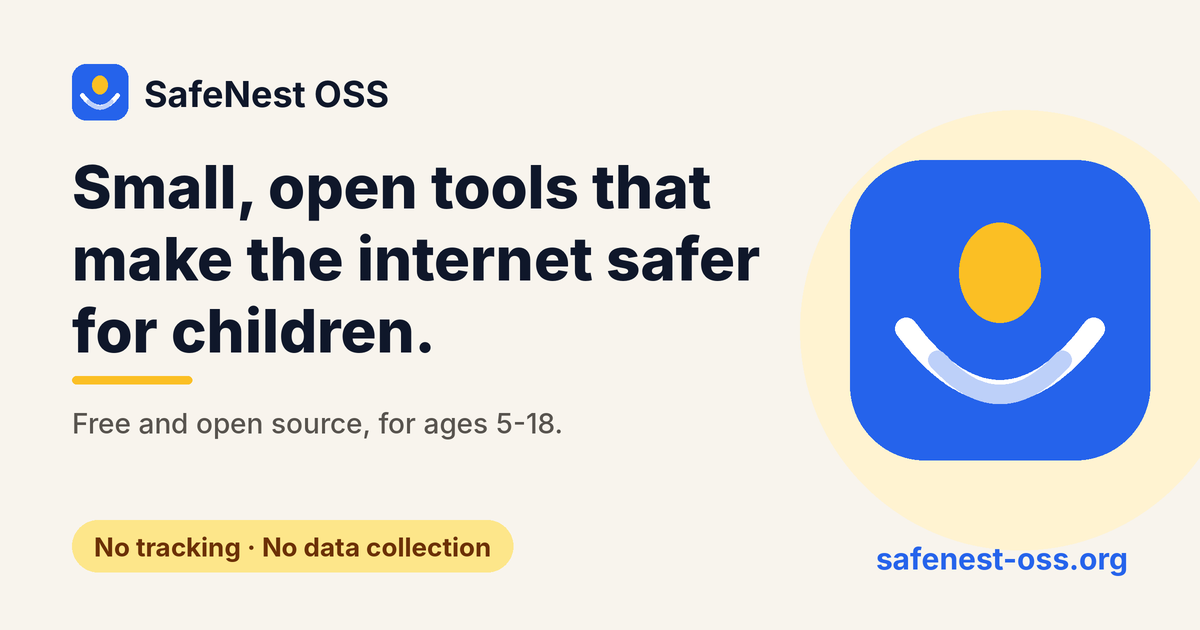
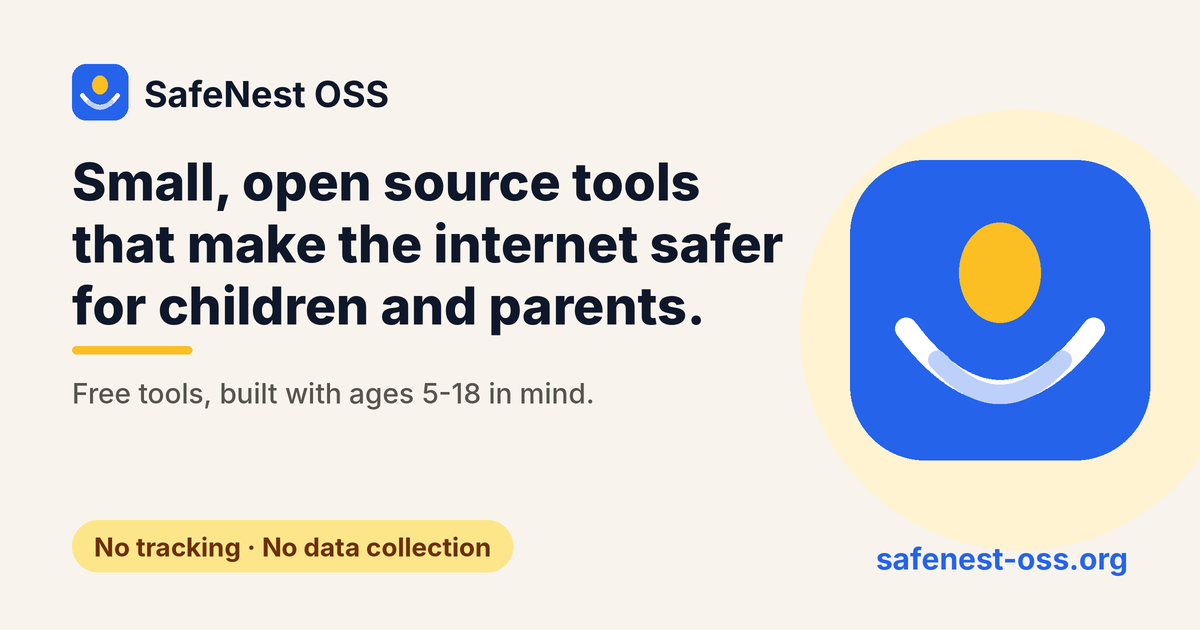
Merge pull request #15 from safenest-oss/feat/tagline
feat: tagline 'for children and parents' (pages, meta, OG images)

Changed region(s): [[0.0617, 0.2413, 0.6475, 0.6937]]

diff --git a/index.html b/index.html
@@ -5,17 +5,17 @@
 <meta name="viewport" content="width=device-width, initial-scale=1">
 <meta http-equiv="Content-Security-Policy" content="default-src 'none'; img-src 'self'; style-src 'self'; script-src 'self'; font-src 'self'; base-uri 'none'; form-action 'none'">
 <meta name="referrer" content="strict-origin-when-cross-origin">
-<title>SafeNest OSS: small, open tools that make the internet safer for children</title>
+<title>SafeNest OSS: small, open source tools that make the internet safer for children and parents</title>
 <meta name="description" content="SafeNest OSS builds small, free and open source tools that protect children aged 5-18 online. First tool: No Shorts for Chrome.">
 <meta name="theme-color" content="#2563eb">
-<meta property="og:title" content="SafeNest OSS: small, open tools that make the internet safer for children">
+<meta property="og:title" content="SafeNest OSS: small, open source tools that make the internet safer for children and parents">
 <meta property="og:description" content="SafeNest OSS builds small, free and open source tools that protect children aged 5-18 online. First tool: No Shorts for Chrome.">
 <meta property="og:type" content="website">
 <meta property="og:url" content="https://safenest-oss.org/">
 <meta property="og:image" content="https://safenest-oss.org/assets/og-en.png">
 <meta property="og:image:width" content="1200">
 <meta property="og:image:height" content="630">
-<meta property="og:image:alt" content="SafeNest OSS: small, open tools that make the internet safer for children">
+<meta property="og:image:alt" content="SafeNest OSS: small, open source tools that make the internet safer for children and parents">
 <meta name="twitter:card" content="summary_large_image">
 <link rel="canonical" href="https://safenest-oss.org/">
 <link rel="icon" href="/favicon.svg" type="image/svg+xml">
@@ -32,7 +32,7 @@
 
 <section class="hero"><div class="wrap"><div class="copy">
 <span class="pill">Open source</span>
-<h1>Small, open tools that make the internet safer for children.</h1>
+<h1>Small, open source tools that make the internet safer for children and parents.</h1>
 <p class="lead">SafeNest OSS builds simple, free tools for ages 5-18. We start small, build with the community, and teach instead of scare.</p>
 <div class="row"><a class="btn lg" href="/no-shorts/">See No Shorts</a><a class="btn lg ghost" href="https://github.com/safenest-oss">Our GitHub</a></div>
 <div class="check"><svg width="20" height="20" viewBox="0 0 24 24" fill="none" stroke="currentColor" stroke-width="2.5" stroke-linecap="round" stroke-linejoin="round" aria-hidden="true"><path d="M20 6L9 17l-5-5"/></svg><span>No tracking, no accounts, no data collection</span></div>
@@ -65,7 +65,7 @@
 
 </main>
 <footer class="site-footer"><div class="wrap">
-<div class="about"><div class="logo"><svg width="32" height="32" viewBox="0 0 48 48" role="img" aria-label="SafeNest"><rect width="48" height="48" rx="12" fill="#2563eb"/><ellipse cx="24" cy="18" rx="6.5" ry="8" fill="#fbbf24"/><path d="M9 27 Q24 47 39 27" fill="none" stroke="#ffffff" stroke-width="3.5" stroke-linecap="round"/><path d="M14 32 Q24 43 34 32" fill="none" stroke="#ffffff" stroke-width="3" stroke-linecap="round" opacity="0.7"/></svg><span>SafeNest OSS</span></div><p>Small, open tools that make the internet safer for children aged 5-18.</p><p class="fine">This site uses no cookies and no analytics.</p></div>
+<div class="about"><div class="logo"><svg width="32" height="32" viewBox="0 0 48 48" role="img" aria-label="SafeNest"><rect width="48" height="48" rx="12" fill="#2563eb"/><ellipse cx="24" cy="18" rx="6.5" ry="8" fill="#fbbf24"/><path d="M9 27 Q24 47 39 27" fill="none" stroke="#ffffff" stroke-width="3.5" stroke-linecap="round"/><path d="M14 32 Q24 43 34 32" fill="none" stroke="#ffffff" stroke-width="3" stroke-linecap="round" opacity="0.7"/></svg><span>SafeNest OSS</span></div><p>Small, open source tools that make the internet safer for children and parents. Built with ages 5-18 in mind.</p><p class="fine">This site uses no cookies and no analytics.</p></div>
 <nav aria-label="Footer"><a href="https://github.com/safenest-oss">GitHub</a><a href="https://github.com/safenest-oss/no-shorts/blob/main/PRIVACY.md">Privacy policy</a><a href="https://github.com/safenest-oss/no-shorts/blob/main/LICENSE">MIT license</a></nav>
 </div></footer>
 </body>

diff --git a/pl/poradniki/limit-shorts-na-telefonie/index.html b/pl/poradniki/limit-shorts-na-telefonie/index.html
@@ -15,7 +15,7 @@
 <meta property="og:image" content="https://safenest-oss.org/assets/og-pl.png">
 <meta property="og:image:width" content="1200">
 <meta property="og:image:height" content="630">
-<meta property="og:image:alt" content="SafeNest OSS: małe, otwarte narzędzia dla bezpieczniejszego internetu dzieci">
+<meta property="og:image:alt" content="SafeNest OSS: małe, otwarte narzędzia dla bezpieczniejszego internetu dzieci i rodziców">
 <meta name="twitter:card" content="summary_large_image">
 <link rel="canonical" href="https://safenest-oss.org/pl/poradniki/limit-shorts-na-telefonie/">
 <link rel="alternate" hreflang="en" href="https://safenest-oss.org/guides/youtube-shorts-limit/">
@@ -66,7 +66,7 @@
 
 </main>
 <footer class="site-footer"><div class="wrap">
-<div class="about"><div class="logo"><svg width="32" height="32" viewBox="0 0 48 48" role="img" aria-label="SafeNest"><rect width="48" height="48" rx="12" fill="#2563eb"/><ellipse cx="24" cy="18" rx="6.5" ry="8" fill="#fbbf24"/><path d="M9 27 Q24 47 39 27" fill="none" stroke="#ffffff" stroke-width="3.5" stroke-linecap="round"/><path d="M14 32 Q24 43 34 32" fill="none" stroke="#ffffff" stroke-width="3" stroke-linecap="round" opacity="0.7"/></svg><span>SafeNest OSS</span></div><p>Małe, otwarte narzędzia, które czynią internet bezpieczniejszym dla dzieci w wieku 5-18 lat.</p><p class="fine">Ta strona nie używa cookies ani analityki.</p></div>
+<div class="about"><div class="logo"><svg width="32" height="32" viewBox="0 0 48 48" role="img" aria-label="SafeNest"><rect width="48" height="48" rx="12" fill="#2563eb"/><ellipse cx="24" cy="18" rx="6.5" ry="8" fill="#fbbf24"/><path d="M9 27 Q24 47 39 27" fill="none" stroke="#ffffff" stroke-width="3.5" stroke-linecap="round"/><path d="M14 32 Q24 43 34 32" fill="none" stroke="#ffffff" stroke-width="3" stroke-linecap="round" opacity="0.7"/></svg><span>SafeNest OSS</span></div><p>Małe, otwarte narzędzia, które czynią internet bezpieczniejszym dla dzieci i rodziców. Z myślą o wieku 5-18 lat.</p><p class="fine">Ta strona nie używa cookies ani analityki.</p></div>
 <nav aria-label="Footer"><a href="https://github.com/safenest-oss">GitHub</a><a href="https://github.com/safenest-oss/no-shorts/blob/main/PRIVACY.md">Polityka prywatności</a><a href="https://github.com/safenest-oss/no-shorts/blob/main/LICENSE">Licencja MIT</a></nav>
 </div></footer>
 </body>

diff --git a/pl/no-shorts/index.html b/pl/no-shorts/index.html
@@ -15,7 +15,7 @@
 <meta property="og:image" content="https://safenest-oss.org/assets/og-pl.png">
 <meta property="og:image:width" content="1200">
 <meta property="og:image:height" content="630">
-<meta property="og:image:alt" content="SafeNest OSS: małe, otwarte narzędzia dla bezpieczniejszego internetu dzieci">
+<meta property="og:image:alt" content="SafeNest OSS: małe, otwarte narzędzia dla bezpieczniejszego internetu dzieci i rodziców">
 <meta name="twitter:card" content="summary_large_image">
 <link rel="canonical" href="https://safenest-oss.org/pl/no-shorts/">
 <link rel="alternate" hreflang="en" href="https://safenest-oss.org/no-shorts/">
@@ -63,7 +63,7 @@
 
 </main>
 <footer class="site-footer"><div class="wrap">
-<div class="about"><div class="logo"><svg width="32" height="32" viewBox="0 0 48 48" role="img" aria-label="SafeNest"><rect width="48" height="48" rx="12" fill="#2563eb"/><ellipse cx="24" cy="18" rx="6.5" ry="8" fill="#fbbf24"/><path d="M9 27 Q24 47 39 27" fill="none" stroke="#ffffff" stroke-width="3.5" stroke-linecap="round"/><path d="M14 32 Q24 43 34 32" fill="none" stroke="#ffffff" stroke-width="3" stroke-linecap="round" opacity="0.7"/></svg><span>SafeNest OSS</span></div><p>Małe, otwarte narzędzia, które czynią internet bezpieczniejszym dla dzieci w wieku 5-18 lat.</p><p class="fine">Ta strona nie używa cookies ani analityki.</p></div>
+<div class="about"><div class="logo"><svg width="32" height="32" viewBox="0 0 48 48" role="img" aria-label="SafeNest"><rect width="48" height="48" rx="12" fill="#2563eb"/><ellipse cx="24" cy="18" rx="6.5" ry="8" fill="#fbbf24"/><path d="M9 27 Q24 47 39 27" fill="none" stroke="#ffffff" stroke-width="3.5" stroke-linecap="round"/><path d="M14 32 Q24 43 34 32" fill="none" stroke="#ffffff" stroke-width="3" stroke-linecap="round" opacity="0.7"/></svg><span>SafeNest OSS</span></div><p>Małe, otwarte narzędzia, które czynią internet bezpieczniejszym dla dzieci i rodziców. Z myślą o wieku 5-18 lat.</p><p class="fine">Ta strona nie używa cookies ani analityki.</p></div>
 <nav aria-label="Footer"><a href="https://github.com/safenest-oss">GitHub</a><a href="https://github.com/safenest-oss/no-shorts/blob/main/PRIVACY.md">Polityka prywatności</a><a href="https://github.com/safenest-oss/no-shorts/blob/main/LICENSE">Licencja MIT</a></nav>
 </div></footer>
 </body>

diff --git a/pl/o-nas/index.html b/pl/o-nas/index.html
@@ -15,7 +15,7 @@
 <meta property="og:image" content="https://safenest-oss.org/assets/og-pl.png">
 <meta property="og:image:width" content="1200">
 <meta property="og:image:height" content="630">
-<meta property="og:image:alt" content="SafeNest OSS: małe, otwarte narzędzia dla bezpieczniejszego internetu dzieci">
+<meta property="og:image:alt" content="SafeNest OSS: małe, otwarte narzędzia dla bezpieczniejszego internetu dzieci i rodziców">
 <meta name="twitter:card" content="summary_large_image">
 <link rel="canonical" href="https://safenest-oss.org/pl/o-nas/">
 <link rel="alternate" hreflang="en" href="https://safenest-oss.org/about/">
@@ -68,7 +68,7 @@
 
 </main>
 <footer class="site-footer"><div class="wrap">
-<div class="about"><div class="logo"><svg width="32" height="32" viewBox="0 0 48 48" role="img" aria-label="SafeNest"><rect width="48" height="48" rx="12" fill="#2563eb"/><ellipse cx="24" cy="18" rx="6.5" ry="8" fill="#fbbf24"/><path d="M9 27 Q24 47 39 27" fill="none" stroke="#ffffff" stroke-width="3.5" stroke-linecap="round"/><path d="M14 32 Q24 43 34 32" fill="none" stroke="#ffffff" stroke-width="3" stroke-linecap="round" opacity="0.7"/></svg><span>SafeNest OSS</span></div><p>Małe, otwarte narzędzia, które czynią internet bezpieczniejszym dla dzieci w wieku 5-18 lat.</p><p class="fine">Ta strona nie używa cookies ani analityki.</p></div>
+<div class="about"><div class="logo"><svg width="32" height="32" viewBox="0 0 48 48" role="img" aria-label="SafeNest"><rect width="48" height="48" rx="12" fill="#2563eb"/><ellipse cx="24" cy="18" rx="6.5" ry="8" fill="#fbbf24"/><path d="M9 27 Q24 47 39 27" fill="none" stroke="#ffffff" stroke-width="3.5" stroke-linecap="round"/><path d="M14 32 Q24 43 34 32" fill="none" stroke="#ffffff" stroke-width="3" stroke-linecap="round" opacity="0.7"/></svg><span>SafeNest OSS</span></div><p>Małe, otwarte narzędzia, które czynią internet bezpieczniejszym dla dzieci i rodziców. Z myślą o wieku 5-18 lat.</p><p class="fine">Ta strona nie używa cookies ani analityki.</p></div>
 <nav aria-label="Footer"><a href="https://github.com/safenest-oss">GitHub</a><a href="https://github.com/safenest-oss/no-shorts/blob/main/PRIVACY.md">Polityka prywatności</a><a href="https://github.com/safenest-oss/no-shorts/blob/main/LICENSE">Licencja MIT</a></nav>
 </div></footer>
 </body>

diff --git a/pl/index.html b/pl/index.html
@@ -15,7 +15,7 @@
 <meta property="og:image" content="https://safenest-oss.org/assets/og-pl.png">
 <meta property="og:image:width" content="1200">
 <meta property="og:image:height" content="630">
-<meta property="og:image:alt" content="SafeNest OSS: małe, otwarte narzędzia dla bezpieczniejszego internetu dzieci">
+<meta property="og:image:alt" content="SafeNest OSS: małe, otwarte narzędzia dla bezpieczniejszego internetu dzieci i rodziców">
 <meta name="twitter:card" content="summary_large_image">
 <link rel="canonical" href="https://safenest-oss.org/pl/">
 <link rel="alternate" hreflang="en" href="https://safenest-oss.org/parents/">
@@ -113,7 +113,7 @@
 
 </main>
 <footer class="site-footer"><div class="wrap">
-<div class="about"><div class="logo"><svg width="32" height="32" viewBox="0 0 48 48" role="img" aria-label="SafeNest"><rect width="48" height="48" rx="12" fill="#2563eb"/><ellipse cx="24" cy="18" rx="6.5" ry="8" fill="#fbbf24"/><path d="M9 27 Q24 47 39 27" fill="none" stroke="#ffffff" stroke-width="3.5" stroke-linecap="round"/><path d="M14 32 Q24 43 34 32" fill="none" stroke="#ffffff" stroke-width="3" stroke-linecap="round" opacity="0.7"/></svg><span>SafeNest OSS</span></div><p>Małe, otwarte narzędzia, które czynią internet bezpieczniejszym dla dzieci w wieku 5-18 lat.</p><p class="fine">Ta strona nie używa cookies ani analityki.</p></div>
+<div class="about"><div class="logo"><svg width="32" height="32" viewBox="0 0 48 48" role="img" aria-label="SafeNest"><rect width="48" height="48" rx="12" fill="#2563eb"/><ellipse cx="24" cy="18" rx="6.5" ry="8" fill="#fbbf24"/><path d="M9 27 Q24 47 39 27" fill="none" stroke="#ffffff" stroke-width="3.5" stroke-linecap="round"/><path d="M14 32 Q24 43 34 32" fill="none" stroke="#ffffff" stroke-width="3" stroke-linecap="round" opacity="0.7"/></svg><span>SafeNest OSS</span></div><p>Małe, otwarte narzędzia, które czynią internet bezpieczniejszym dla dzieci i rodziców. Z myślą o wieku 5-18 lat.</p><p class="fine">Ta strona nie używa cookies ani analityki.</p></div>
 <nav aria-label="Footer"><a href="https://github.com/safenest-oss">GitHub</a><a href="https://github.com/safenest-oss/no-shorts/blob/main/PRIVACY.md">Polityka prywatności</a><a href="https://github.com/safenest-oss/no-shorts/blob/main/LICENSE">Licencja MIT</a></nav>
 </div></footer>
 </body>

diff --git a/guides/youtube-shorts-limit/index.html b/guides/youtube-shorts-limit/index.html
@@ -15,7 +15,7 @@
 <meta property="og:image" content="https://safenest-oss.org/assets/og-en.png">
 <meta property="og:image:width" content="1200">
 <meta property="og:image:height" content="630">
-<meta property="og:image:alt" content="SafeNest OSS: small, open tools that make the internet safer for children">
+<meta property="og:image:alt" content="SafeNest OSS: small, open source tools that make the internet safer for children and parents">
 <meta name="twitter:card" content="summary_large_image">
 <link rel="canonical" href="https://safenest-oss.org/guides/youtube-shorts-limit/">
 <link rel="alternate" hreflang="en" href="https://safenest-oss.org/guides/youtube-shorts-limit/">
@@ -65,7 +65,7 @@
 
 </main>
 <footer class="site-footer"><div class="wrap">
-<div class="about"><div class="logo"><svg width="32" height="32" viewBox="0 0 48 48" role="img" aria-label="SafeNest"><rect width="48" height="48" rx="12" fill="#2563eb"/><ellipse cx="24" cy="18" rx="6.5" ry="8" fill="#fbbf24"/><path d="M9 27 Q24 47 39 27" fill="none" stroke="#ffffff" stroke-width="3.5" stroke-linecap="round"/><path d="M14 32 Q24 43 34 32" fill="none" stroke="#ffffff" stroke-width="3" stroke-linecap="round" opacity="0.7"/></svg><span>SafeNest OSS</span></div><p>Small, open tools that make the internet safer for children aged 5-18.</p><p class="fine">This site uses no cookies and no analytics.</p></div>
+<div class="about"><div class="logo"><svg width="32" height="32" viewBox="0 0 48 48" role="img" aria-label="SafeNest"><rect width="48" height="48" rx="12" fill="#2563eb"/><ellipse cx="24" cy="18" rx="6.5" ry="8" fill="#fbbf24"/><path d="M9 27 Q24 47 39 27" fill="none" stroke="#ffffff" stroke-width="3.5" stroke-linecap="round"/><path d="M14 32 Q24 43 34 32" fill="none" stroke="#ffffff" stroke-width="3" stroke-linecap="round" opacity="0.7"/></svg><span>SafeNest OSS</span></div><p>Small, open source tools that make the internet safer for children and parents. Built with ages 5-18 in mind.</p><p class="fine">This site uses no cookies and no analytics.</p></div>
 <nav aria-label="Footer"><a href="https://github.com/safenest-oss">GitHub</a><a href="https://github.com/safenest-oss/no-shorts/blob/main/PRIVACY.md">Privacy policy</a><a href="https://github.com/safenest-oss/no-shorts/blob/main/LICENSE">MIT license</a></nav>
 </div></footer>
 </body>

diff --git a/no-shorts/index.html b/no-shorts/index.html
@@ -15,7 +15,7 @@
 <meta property="og:image" content="https://safenest-oss.org/assets/og-en.png">
 <meta property="og:image:width" content="1200">
 <meta property="og:image:height" content="630">
-<meta property="og:image:alt" content="SafeNest OSS: small, open tools that make the internet safer for children">
+<meta property="og:image:alt" content="SafeNest OSS: small, open source tools that make the internet safer for children and parents">
 <meta name="twitter:card" content="summary_large_image">
 <link rel="canonical" href="https://safenest-oss.org/no-shorts/">
 <link rel="alternate" hreflang="en" href="https://safenest-oss.org/no-shorts/">
@@ -63,7 +63,7 @@
 
 </main>
 <footer class="site-footer"><div class="wrap">
-<div class="about"><div class="logo"><svg width="32" height="32" viewBox="0 0 48 48" role="img" aria-label="SafeNest"><rect width="48" height="48" rx="12" fill="#2563eb"/><ellipse cx="24" cy="18" rx="6.5" ry="8" fill="#fbbf24"/><path d="M9 27 Q24 47 39 27" fill="none" stroke="#ffffff" stroke-width="3.5" stroke-linecap="round"/><path d="M14 32 Q24 43 34 32" fill="none" stroke="#ffffff" stroke-width="3" stroke-linecap="round" opacity="0.7"/></svg><span>SafeNest OSS</span></div><p>Small, open tools that make the internet safer for children aged 5-18.</p><p class="fine">This site uses no cookies and no analytics.</p></div>
+<div class="about"><div class="logo"><svg width="32" height="32" viewBox="0 0 48 48" role="img" aria-label="SafeNest"><rect width="48" height="48" rx="12" fill="#2563eb"/><ellipse cx="24" cy="18" rx="6.5" ry="8" fill="#fbbf24"/><path d="M9 27 Q24 47 39 27" fill="none" stroke="#ffffff" stroke-width="3.5" stroke-linecap="round"/><path d="M14 32 Q24 43 34 32" fill="none" stroke="#ffffff" stroke-width="3" stroke-linecap="round" opacity="0.7"/></svg><span>SafeNest OSS</span></div><p>Small, open source tools that make the internet safer for children and parents. Built with ages 5-18 in mind.</p><p class="fine">This site uses no cookies and no analytics.</p></div>
 <nav aria-label="Footer"><a href="https://github.com/safenest-oss">GitHub</a><a href="https://github.com/safenest-oss/no-shorts/blob/main/PRIVACY.md">Privacy policy</a><a href="https://github.com/safenest-oss/no-shorts/blob/main/LICENSE">MIT license</a></nav>
 </div></footer>
 </body>

diff --git a/parents/index.html b/parents/index.html
@@ -15,7 +15,7 @@
 <meta property="og:image" content="https://safenest-oss.org/assets/og-en.png">
 <meta property="og:image:width" content="1200">
 <meta property="og:image:height" content="630">
-<meta property="og:image:alt" content="SafeNest OSS: small, open tools that make the internet safer for children">
+<meta property="og:image:alt" content="SafeNest OSS: small, open source tools that make the internet safer for children and parents">
 <meta name="twitter:card" content="summary_large_image">
 <link rel="canonical" href="https://safenest-oss.org/parents/">
 <link rel="alternate" hreflang="en" href="https://safenest-oss.org/parents/">
@@ -113,7 +113,7 @@
 
 </main>
 <footer class="site-footer"><div class="wrap">
-<div class="about"><div class="logo"><svg width="32" height="32" viewBox="0 0 48 48" role="img" aria-label="SafeNest"><rect width="48" height="48" rx="12" fill="#2563eb"/><ellipse cx="24" cy="18" rx="6.5" ry="8" fill="#fbbf24"/><path d="M9 27 Q24 47 39 27" fill="none" stroke="#ffffff" stroke-width="3.5" stroke-linecap="round"/><path d="M14 32 Q24 43 34 32" fill="none" stroke="#ffffff" stroke-width="3" stroke-linecap="round" opacity="0.7"/></svg><span>SafeNest OSS</span></div><p>Small, open tools that make the internet safer for children aged 5-18.</p><p class="fine">This site uses no cookies and no analytics.</p></div>
+<div class="about"><div class="logo"><svg width="32" height="32" viewBox="0 0 48 48" role="img" aria-label="SafeNest"><rect width="48" height="48" rx="12" fill="#2563eb"/><ellipse cx="24" cy="18" rx="6.5" ry="8" fill="#fbbf24"/><path d="M9 27 Q24 47 39 27" fill="none" stroke="#ffffff" stroke-width="3.5" stroke-linecap="round"/><path d="M14 32 Q24 43 34 32" fill="none" stroke="#ffffff" stroke-width="3" stroke-linecap="round" opacity="0.7"/></svg><span>SafeNest OSS</span></div><p>Small, open source tools that make the internet safer for children and parents. Built with ages 5-18 in mind.</p><p class="fine">This site uses no cookies and no analytics.</p></div>
 <nav aria-label="Footer"><a href="https://github.com/safenest-oss">GitHub</a><a href="https://github.com/safenest-oss/no-shorts/blob/main/PRIVACY.md">Privacy policy</a><a href="https://github.com/safenest-oss/no-shorts/blob/main/LICENSE">MIT license</a></nav>
 </div></footer>
 </body>

diff --git a/about/index.html b/about/index.html
@@ -15,7 +15,7 @@
 <meta property="og:image" content="https://safenest-oss.org/assets/og-en.png">
 <meta property="og:image:width" content="1200">
 <meta property="og:image:height" content="630">
-<meta property="og:image:alt" content="SafeNest OSS: small, open tools that make the internet safer for children">
+<meta property="og:image:alt" content="SafeNest OSS: small, open source tools that make the internet safer for children and parents">
 <meta name="twitter:card" content="summary_large_image">
 <link rel="canonical" href="https://safenest-oss.org/about/">
 <link rel="alternate" hreflang="en" href="https://safenest-oss.org/about/">
@@ -68,7 +68,7 @@
 
 </main>
 <footer class="site-footer"><div class="wrap">
-<div class="about"><div class="logo"><svg width="32" height="32" viewBox="0 0 48 48" role="img" aria-label="SafeNest"><rect width="48" height="48" rx="12" fill="#2563eb"/><ellipse cx="24" cy="18" rx="6.5" ry="8" fill="#fbbf24"/><path d="M9 27 Q24 47 39 27" fill="none" stroke="#ffffff" stroke-width="3.5" stroke-linecap="round"/><path d="M14 32 Q24 43 34 32" fill="none" stroke="#ffffff" stroke-width="3" stroke-linecap="round" opacity="0.7"/></svg><span>SafeNest OSS</span></div><p>Small, open tools that make the internet safer for children aged 5-18.</p><p class="fine">This site uses no cookies and no analytics.</p></div>
+<div class="about"><div class="logo"><svg width="32" height="32" viewBox="0 0 48 48" role="img" aria-label="SafeNest"><rect width="48" height="48" rx="12" fill="#2563eb"/><ellipse cx="24" cy="18" rx="6.5" ry="8" fill="#fbbf24"/><path d="M9 27 Q24 47 39 27" fill="none" stroke="#ffffff" stroke-width="3.5" stroke-linecap="round"/><path d="M14 32 Q24 43 34 32" fill="none" stroke="#ffffff" stroke-width="3" stroke-linecap="round" opacity="0.7"/></svg><span>SafeNest OSS</span></div><p>Small, open source tools that make the internet safer for children and parents. Built with ages 5-18 in mind.</p><p class="fine">This site uses no cookies and no analytics.</p></div>
 <nav aria-label="Footer"><a href="https://github.com/safenest-oss">GitHub</a><a href="https://github.com/safenest-oss/no-shorts/blob/main/PRIVACY.md">Privacy policy</a><a href="https://github.com/safenest-oss/no-shorts/blob/main/LICENSE">MIT license</a></nav>
 </div></footer>
 </body>
